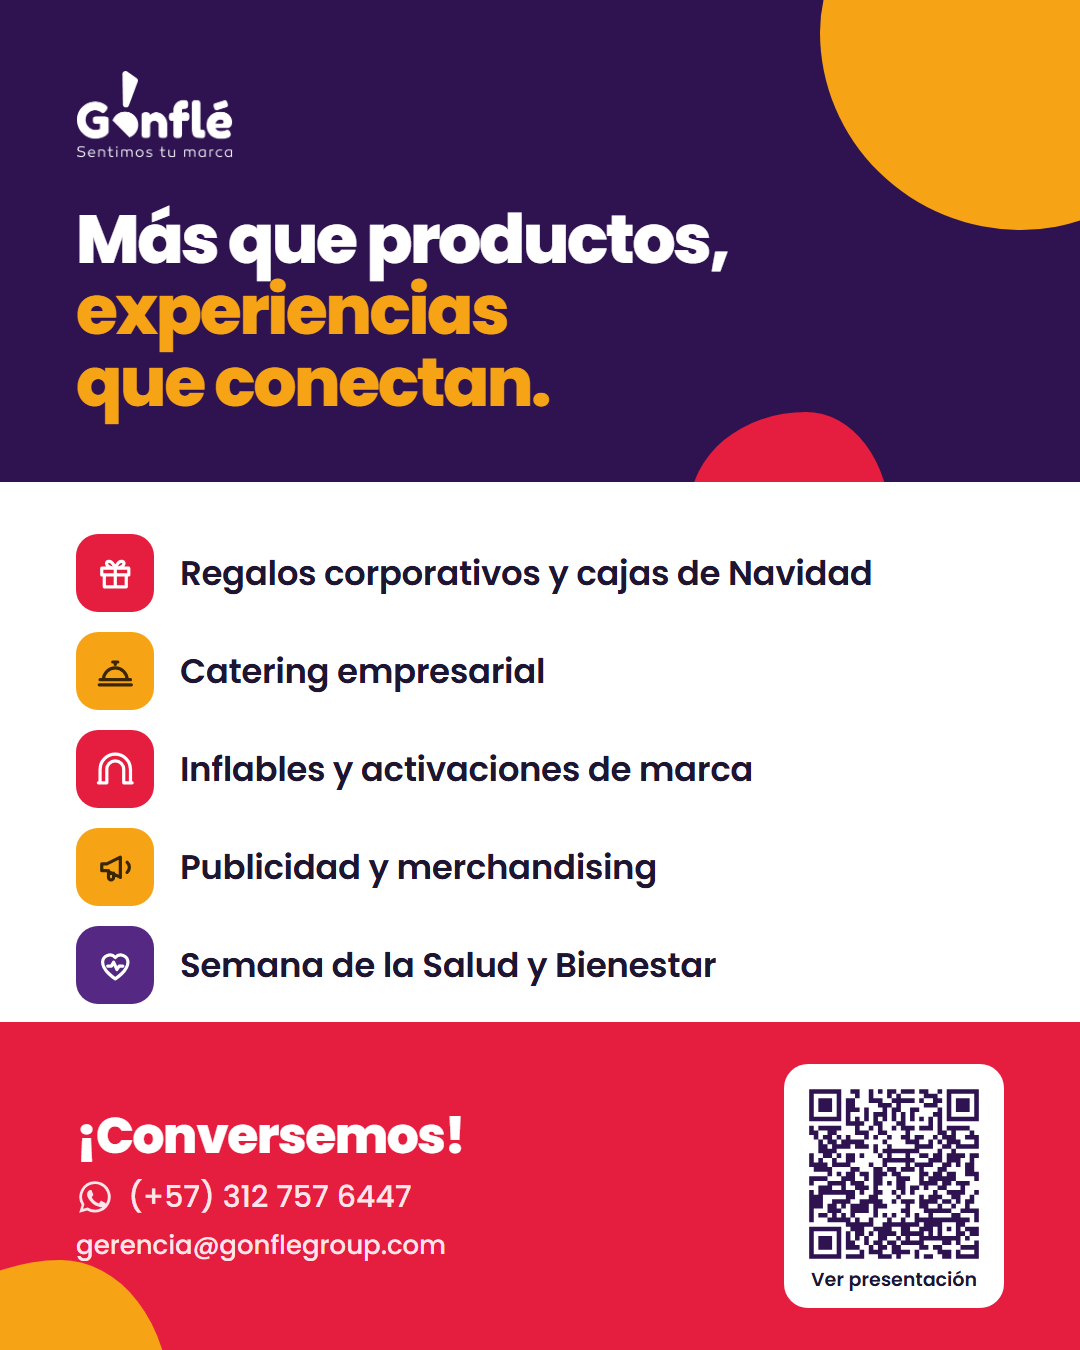
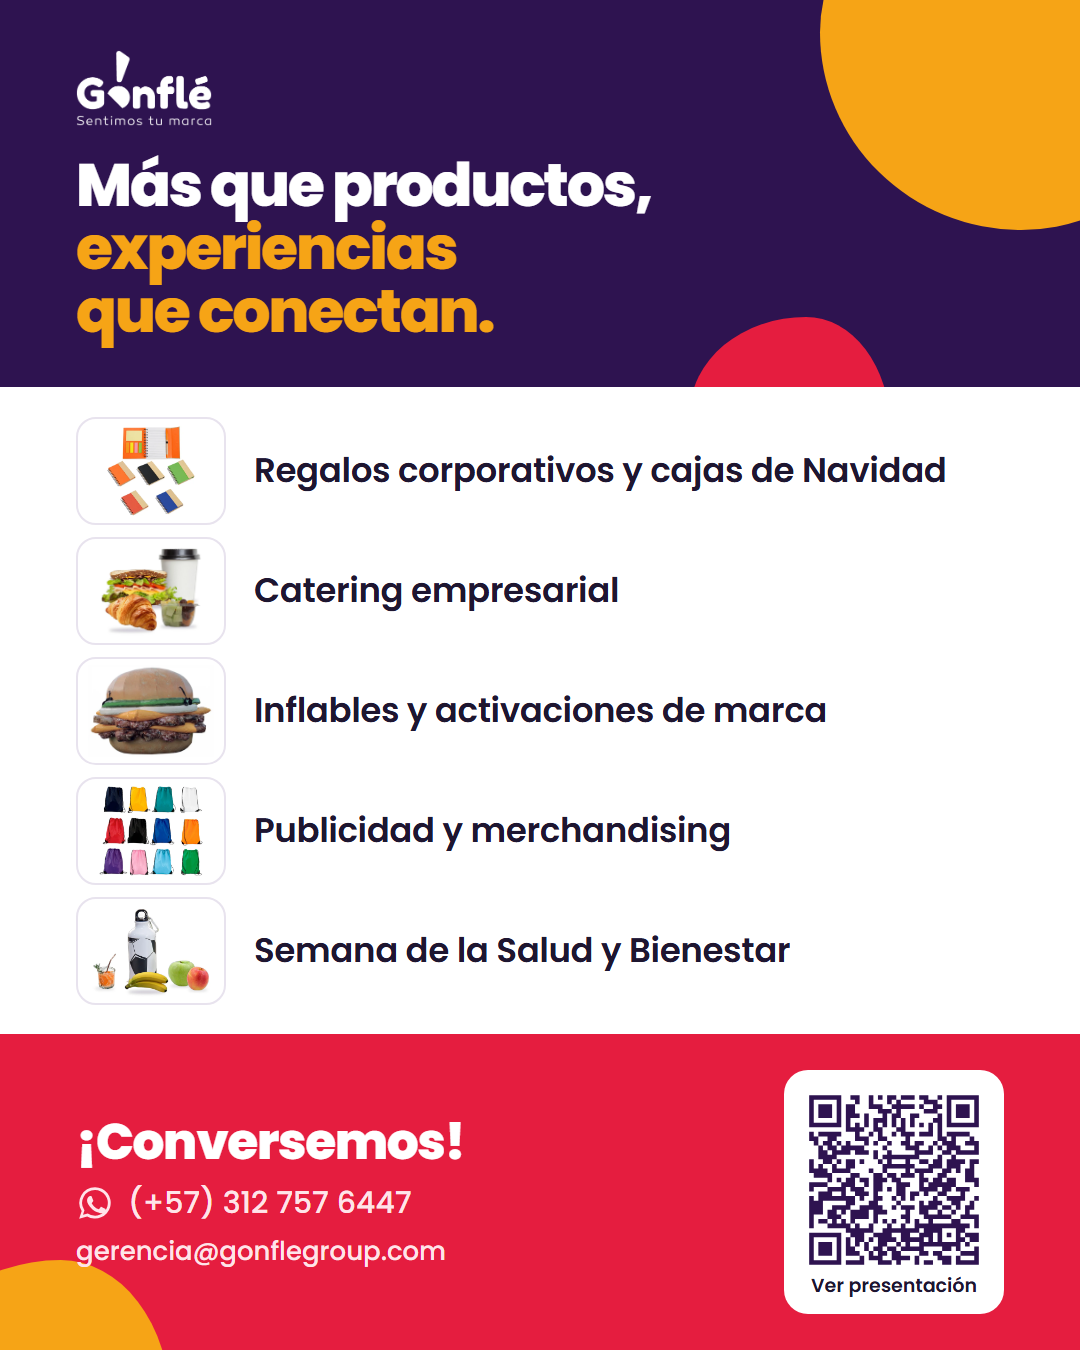
Imagen de WhatsApp con fotos por línea

Changed region(s): [[0.0, 0.0311, 1.0, 0.9956], [0.0611, 0.8089, 0.4278, 0.9333]]

diff --git a/fuentes/whatsapp.html b/fuentes/whatsapp.html
@@ -7,17 +7,18 @@
 <style>
 html,body{margin:0;width:1080px;height:1350px;overflow:hidden}
 .lienzo{width:1080px;height:1350px;position:relative;overflow:hidden;background:#fff;display:flex;flex-direction:column}
-.top{background:var(--morado-osc);padding:70px 76px 64px;position:relative;overflow:hidden;color:#D8CEE8}
+.top{background:var(--morado-osc);padding:50px 76px 44px;position:relative;overflow:hidden;color:#D8CEE8}
 .blob{position:absolute;border-radius:58% 42% 47% 53%/48% 55% 45% 52%}
 .top .a{width:380px;height:380px;right:-120px;top:-150px;background:var(--amarillo)}
 .top .b{width:200px;height:200px;right:190px;bottom:-130px;background:var(--rojo)}
-.top img{height:88px;margin-bottom:46px;position:relative}
-.top h1{color:#fff;font-size:68px;font-weight:800;letter-spacing:-.035em;line-height:1.05;position:relative;max-width:820px}
+.top img{height:76px;margin-bottom:28px;position:relative}
+.top h1{max-width:620px !important;color:#fff;font-size:60px;font-weight:800;letter-spacing:-.035em;line-height:1.05;position:relative;max-width:820px}
 .top h1 em{font-style:normal;color:var(--amarillo)}
-.lista{padding:52px 76px 0;display:grid;gap:20px}
-.it{display:flex;align-items:center;gap:26px;font-size:34px;font-weight:600;color:var(--tinta);letter-spacing:-.01em}
-.it .ico{width:78px;height:78px;border-radius:22px}
-.base{margin-top:auto;background:var(--rojo);padding:42px 76px;display:flex;align-items:center;justify-content:space-between;gap:40px;position:relative;overflow:hidden}
+.lista{flex:1;padding:24px 76px;display:grid;gap:12px;align-content:center}
+.it{display:flex;align-items:center;gap:28px;font-size:34px;font-weight:600;color:var(--tinta);letter-spacing:-.01em}
+.ft{position:relative;width:150px;height:108px;flex:none;border:2px solid var(--linea);border-radius:20px;background:#fff;overflow:hidden}
+.ft img{width:100%;height:100%;object-fit:contain;padding:6px}
+.base{margin-top:auto;background:var(--rojo);padding:36px 76px;display:flex;align-items:center;justify-content:space-between;gap:40px;position:relative;overflow:hidden}
 .base .c{width:260px;height:260px;left:-90px;bottom:-170px;background:var(--amarillo)}
 .base>div{position:relative}
 .base h2{color:#fff;font-size:50px;font-weight:800;margin-bottom:10px}
@@ -52,11 +53,11 @@ html,body{margin:0;width:1080px;height:1350px;overflow:hidden}
     <h1>Más que productos, <em>experiencias que conectan.</em></h1>
   </div>
   <div class="lista">
-    <div class="it"><span class="ico c-rojo"><svg><use href="#i-regalo"/></svg></span>Regalos corporativos y cajas de Navidad</div>
-    <div class="it"><span class="ico c-amarillo"><svg><use href="#i-catering"/></svg></span>Catering empresarial</div>
-    <div class="it"><span class="ico c-rojo"><svg><use href="#i-inflable"/></svg></span>Inflables y activaciones de marca</div>
-    <div class="it"><span class="ico c-amarillo"><svg><use href="#i-megafono"/></svg></span>Publicidad y merchandising</div>
-    <div class="it"><span class="ico c-morado"><svg><use href="#i-salud"/></svg></span>Semana de la Salud y Bienestar</div>
+    <div class="it"><span class="ft"><img src="../assets/img/regalo-libretas.webp" alt=""></span>Regalos corporativos y cajas de Navidad</div>
+    <div class="it"><span class="ft"><img src="../assets/img/catering-kit.webp" alt=""></span>Catering empresarial</div>
+    <div class="it"><span class="ft"><img src="../assets/img/inf-hamburguesa.webp" alt=""></span>Inflables y activaciones de marca</div>
+    <div class="it"><span class="ft"><img src="../assets/img/m-tulas.webp" alt=""></span>Publicidad y merchandising</div>
+    <div class="it"><span class="ft"><img src="../assets/img/bienestar-kit.webp" alt=""></span>Semana de la Salud y Bienestar</div>
   </div>
   <div class="base">
     <span class="blob c"></span>
